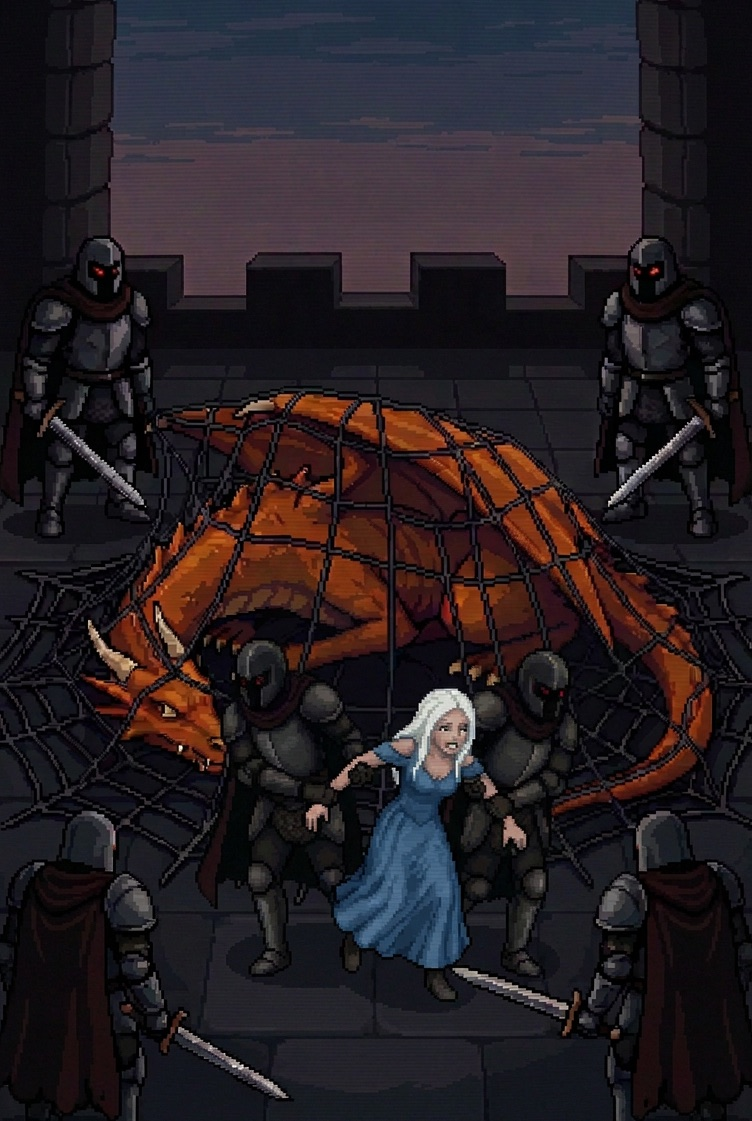
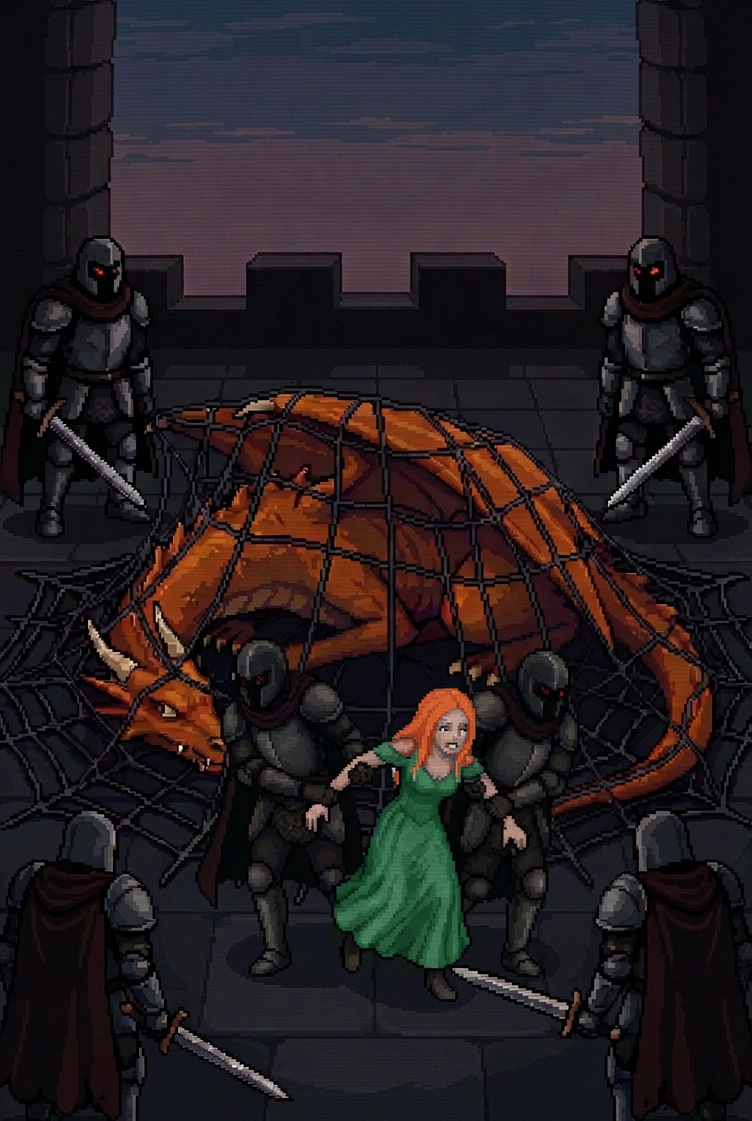
New Dragon Queen Sarai: pixel-art portrait, copper-haired sprite, recolored storybook pictures

Changed region(s): [[0.4282, 0.5932, 0.6423, 0.8742]]

diff --git a/khaleesi0900-bundle.html b/khaleesi0900-bundle.html
@@ -427,8 +427,8 @@
     uiMusicAudio.volume = 0.25;
     cutsceneMusicAudio.volume = 0.25;
 
-    const khaleesiFrame1 = new Image(); khaleesiFrame1.src = 'assets/images/khaleesi1.png';
-    const khaleesiFrame2 = new Image(); khaleesiFrame2.src = 'assets/images/khaleesi2.png';
+    const khaleesiFrame1 = new Image(); khaleesiFrame1.src = 'assets/images/sarai1.png';
+    const khaleesiFrame2 = new Image(); khaleesiFrame2.src = 'assets/images/sarai2.png';
     // Noble portraits for the beheading screen and the severed-head inventory.
     // face = [centerX, centerY, size] of the head crop; full = [x, y, size] of the square portrait crop (720px images).
     const NOBLES = [
@@ -3013,23 +3013,31 @@ window.addEventListener('keydown', (e) => {
       ctx.translate(kx, ky);
       ctx.scale(scale, scale);
 
-      ctx.fillStyle = '#f5f6fa';
+      // Dragon Queen Sarai: copper hair, gold circlet, green dragon-scale dress (matches sarai1/2.png)
+      ctx.fillStyle = '#b8431f';
       ctx.fillRect(-6, -16, 12, 10);
       ctx.fillRect(-8, -12, 16, 6);
       ctx.fillRect(-4, -6, 8, 12);
+      ctx.fillStyle = '#8a2e16';
+      ctx.fillRect(-8, -8, 3, 4);
 
-      ctx.fillStyle = '#f8c291';
+      ctx.fillStyle = '#e2a77e';
       ctx.fillRect(-4, -12, 8, 8);
 
-      ctx.fillStyle = '#0a3d62';
+      ctx.fillStyle = '#e8b33a';          // circlet with a ruby
+      ctx.fillRect(-5, -13, 10, 1);
+      ctx.fillStyle = '#d41f3a';
+      ctx.fillRect(-1, -14, 2, 2);
+
+      ctx.fillStyle = '#1d5c33';
       ctx.fillRect(1, -10, 2, 2);
 
-      ctx.fillStyle = '#4a69bd';
+      ctx.fillStyle = '#2f7a4f';
       ctx.fillRect(-5, -4, 10, 14);
-      ctx.fillStyle = '#1e3799';
+      ctx.fillStyle = '#1f5536';
       ctx.fillRect(-6, 2, 12, 8);
 
-      ctx.fillStyle = '#f6b93b';
+      ctx.fillStyle = '#e8b33a';
       ctx.fillRect(-5, -1, 10, 2);
 
       ctx.restore();

diff --git a/src/js/render-characters.js b/src/js/render-characters.js
@@ -6,23 +6,31 @@
       ctx.translate(kx, ky);
       ctx.scale(scale, scale);
 
-      ctx.fillStyle = '#f5f6fa';
+      // Dragon Queen Sarai: copper hair, gold circlet, green dragon-scale dress (matches sarai1/2.png)
+      ctx.fillStyle = '#b8431f';
       ctx.fillRect(-6, -16, 12, 10);
       ctx.fillRect(-8, -12, 16, 6);
       ctx.fillRect(-4, -6, 8, 12);
+      ctx.fillStyle = '#8a2e16';
+      ctx.fillRect(-8, -8, 3, 4);
 
-      ctx.fillStyle = '#f8c291';
+      ctx.fillStyle = '#e2a77e';
       ctx.fillRect(-4, -12, 8, 8);
 
-      ctx.fillStyle = '#0a3d62';
+      ctx.fillStyle = '#e8b33a';          // circlet with a ruby
+      ctx.fillRect(-5, -13, 10, 1);
+      ctx.fillStyle = '#d41f3a';
+      ctx.fillRect(-1, -14, 2, 2);
+
+      ctx.fillStyle = '#1d5c33';
       ctx.fillRect(1, -10, 2, 2);
 
-      ctx.fillStyle = '#4a69bd';
+      ctx.fillStyle = '#2f7a4f';
       ctx.fillRect(-5, -4, 10, 14);
-      ctx.fillStyle = '#1e3799';
+      ctx.fillStyle = '#1f5536';
       ctx.fillRect(-6, 2, 12, 8);
 
-      ctx.fillStyle = '#f6b93b';
+      ctx.fillStyle = '#e8b33a';
       ctx.fillRect(-5, -1, 10, 2);
 
       ctx.restore();

diff --git a/src/js/config.js b/src/js/config.js
@@ -39,8 +39,8 @@
     uiMusicAudio.volume = 0.25;
     cutsceneMusicAudio.volume = 0.25;
 
-    const khaleesiFrame1 = new Image(); khaleesiFrame1.src = 'assets/images/khaleesi1.png';
-    const khaleesiFrame2 = new Image(); khaleesiFrame2.src = 'assets/images/khaleesi2.png';
+    const khaleesiFrame1 = new Image(); khaleesiFrame1.src = 'assets/images/sarai1.png';
+    const khaleesiFrame2 = new Image(); khaleesiFrame2.src = 'assets/images/sarai2.png';
     // Noble portraits for the beheading screen and the severed-head inventory.
     // face = [centerX, centerY, size] of the head crop; full = [x, y, size] of the square portrait crop (720px images).
     const NOBLES = [

diff --git a/CLAUDE.md b/CLAUDE.md
@@ -101,7 +101,7 @@ This inlines `src/style.css` and `src/js/*.js` (in `index.html` order) into `kha
 
 ## Naming
 
-- The heroine is **Dragon Queen Sarai** in every player-facing string (story text, splash "DRAGON QUEEN SARAI RIDES!", stats, manifest). Never write "Khaleesi" in visible text; code identifiers (`khaleesiMounted`, `showKhaleesiBanner`, `khaleesi1.png`, etc.) still use the old name.
+- The heroine is **Dragon Queen Sarai** in every player-facing string (story text, splash "DRAGON QUEEN SARAI RIDES!", stats, manifest). Never write "Khaleesi" in visible text; code identifiers (`khaleesiMounted`, `showKhaleesiBanner`, `khaleesi1.png`, etc.) still use the old name. Her portrait is `assets/images/sarai1.png` (calm) and `sarai2.png` (speaking, glancing aside), 207px pixel art drawn by `archive/source-art/sarai/draw.py` (run it with `python3 -I draw.py <outdir>`; copper hair, gold circlet with a ruby, green dragon-scale armor). The small sprite (`drawKhaleesiSprite()`) uses the same colors. The old Daenerys-like `khaleesi1/2.png` are in `archive/unused-assets/`. In the storybook pictures (`dance1`, `dance2`, `capture1`) Sarai was recolored (plus hand-picked touch-ups in `FORCE`, matching the user's own paint-over; their 429px copies are in `archive/source-art/sarai/user-touchups/`) from the white-haired, blue-dressed originals in `archive/source-art/` to copper hair and a green dress by `archive/source-art/sarai/recolor.py` (polygons around her per picture; convert to BMP with `sips` first, since there is no PIL).
 - The dragon is **Cyndraxx** (renamed from Syraxx, which was too close to a House of the Dragon dragon).
 - Kings and queens are called **nobles** in visible text, never "royals" (code still uses `isRoyal`, `royalHeads`).
 - Long titles use `fitFont(text, px, maxW)` (config.js) so they shrink to fit narrow phones.
